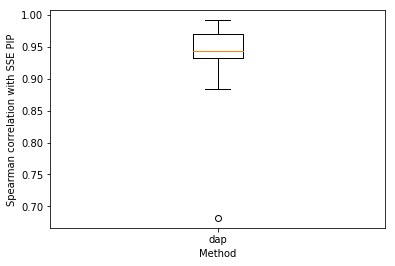
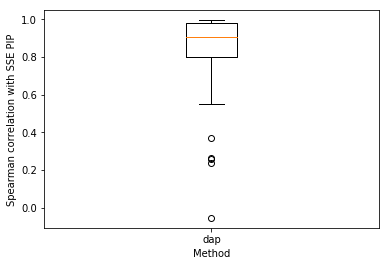
Preliminary results for PIP agreement

diff --git a/docs/pip.html b/docs/pip.html
@@ -1,7 +1,7 @@
 <!DOCTYPE html>
 <html lang="en">
 <head>
-<!-- 2017-12-04 Mon 11:38 -->
+<!-- 2017-12-05 Tue 12:03 -->
 <meta charset="utf-8">
 <meta name="viewport" content="width=device-width, initial-scale=1">
 <title>PIP calibration</title>
@@ -291,13 +291,17 @@ Sample a gene on chromosomes 1-22
 <div class="org-src-container">
 <pre class="src src-ipython"><span class="org-variable-name">genes</span> = (pd.read_table(<span class="org-string">'/home/aksarkar/projects/singlecell-qtl/data/scqtl-genes.txt.gz'</span>)
          .set_index(<span class="org-string">'gene'</span>)
-         .query(<span class="org-string">'source == "H. sapiens" and chr != "hsX" and chr != "hsY"'</span>))
+         .query(<span class="org-string">'source == "H. sapiens"'</span>)
+         .query(<span class="org-string">'chr != "hsX"'</span>)
+         .query(<span class="org-string">'chr != "hsY"'</span>)
+         .query(<span class="org-string">'chr != "hsMT"'</span>))
 </pre>
 </div></li>
 
 <li><p>
 Extract genotypes of GEUVADIS individuals \(X\) from 100 kilobases
-upstream (respecting strand) of the gene start (<code>sse.evaluate.read_vcf</code>)
+upstream (respecting strand) of the gene start
+(<code>sse.evaluate.read_vcf</code>).
 </p>
 
 <div class="org-src-container">
@@ -325,10 +329,89 @@ upstream (respecting strand) of the gene start (<code>sse.evaluate.read_vcf</cod
 <pre class="src src-ipython"><span class="org-variable-name">one_causal</span> = sse.evaluate.pip_calibration(
   genes=genes,
   genotype_files=genotype_files,
-  num_genes=1,
-  num_trials=10,
+  num_genes=100,
+  num_trials=1,
   num_effects=10,
   seed=0)
+</pre>
+</div>
+
+<p>
+Tabulate the actual number of variants used in the simulation:
+</p>
+
+<div class="org-src-container">
+<pre class="src src-ipython">one_causal.groupby(level=0).<span class="org-builtin">apply</span>(<span class="org-keyword">lambda</span> x: x.iloc[0][<span class="org-string">'num_snps'</span>])
+</pre>
+</div>
+
+<pre class="example">
+ENSG00000003402    1061.0
+  ENSG00000004776    1406.0
+  ENSG00000008018    1153.0
+  ENSG00000012779    1921.0
+  ENSG00000029725    1404.0
+  ENSG00000063322    1151.0
+  ENSG00000064666    1734.0
+  ENSG00000082497    1410.0
+  ENSG00000095303    1210.0
+  ENSG00000095585    1408.0
+  ENSG00000100285    1317.0
+  ENSG00000101187     925.0
+  ENSG00000104881    1307.0
+  ENSG00000105523    1225.0
+  ENSG00000108309    1152.0
+  ENSG00000108523    1290.0
+  ENSG00000109771    1397.0
+  ENSG00000115137    1130.0
+  ENSG00000115541    1087.0
+  ENSG00000116117    1420.0
+  ENSG00000123364    1393.0
+  ENSG00000128309    1749.0
+  ENSG00000130147    1620.0
+  ENSG00000130699    1498.0
+  ENSG00000130725     441.0
+  ENSG00000132329    1363.0
+  ENSG00000135482    1048.0
+  ENSG00000136531    1311.0
+  ENSG00000139190    1495.0
+  ENSG00000139974    1234.0
+                      ...  
+  ENSG00000181019    1250.0
+  ENSG00000181333    1512.0
+  ENSG00000181562    1781.0
+  ENSG00000182177    1418.0
+  ENSG00000182791    1036.0
+  ENSG00000184787    1592.0
+  ENSG00000184898    1484.0
+  ENSG00000188133    1546.0
+  ENSG00000196371    1462.0
+  ENSG00000197385    1479.0
+  ENSG00000197822    1086.0
+  ENSG00000198829    1427.0
+  ENSG00000204248    1103.0
+  ENSG00000204385    1053.0
+  ENSG00000204488      21.0
+  ENSG00000213265    1195.0
+  ENSG00000213398    1026.0
+  ENSG00000214447    1296.0
+  ENSG00000215612    1884.0
+  ENSG00000220256    1656.0
+  ENSG00000223802    1224.0
+  ENSG00000226209    1519.0
+  ENSG00000228835    1287.0
+  ENSG00000236029       1.0
+  ENSG00000254087    1342.0
+  ENSG00000255561    1117.0
+  ENSG00000267884    1534.0
+  ENSG00000268156    1309.0
+  ENSG00000268488    1194.0
+  ENSG00000269042    1147.0
+  Length: 100, dtype: float64
+</pre>
+
+<div class="org-src-container">
+<pre class="src src-ipython"><span class="org-keyword">del</span> one_causal[<span class="org-string">'num_snps'</span>]
 </pre>
 </div>
 
@@ -356,11 +439,16 @@ plt.gcf()
 <pre class="src src-ipython"><span class="org-variable-name">two_causal</span> = sse.evaluate.pip_calibration(
   genes=genes,
   genotype_files=genotype_files,
-  num_genes=1,
-  num_trials=10,
+  num_genes=100,
+  num_trials=1,
   num_causal=2,
   num_effects=10,
   seed=0)
+</pre>
+</div>
+
+<div class="org-src-container">
+<pre class="src src-ipython"><span class="org-keyword">del</span> two_causal[<span class="org-string">'num_snps'</span>]
 </pre>
 </div>
 
@@ -383,7 +471,7 @@ plt.gcf()
 </div>
 <div id="postamble" class="status">
 <p class="author">Author: Abhishek Sarkar</p>
-<p class="date">Created: 2017-12-04 Mon 11:38</p>
+<p class="date">Created: 2017-12-05 Tue 12:03</p>
 <p class="validation"><a href="http://validator.w3.org/check?uri=referer">Validate</a></p>
 </div>
 </body>
